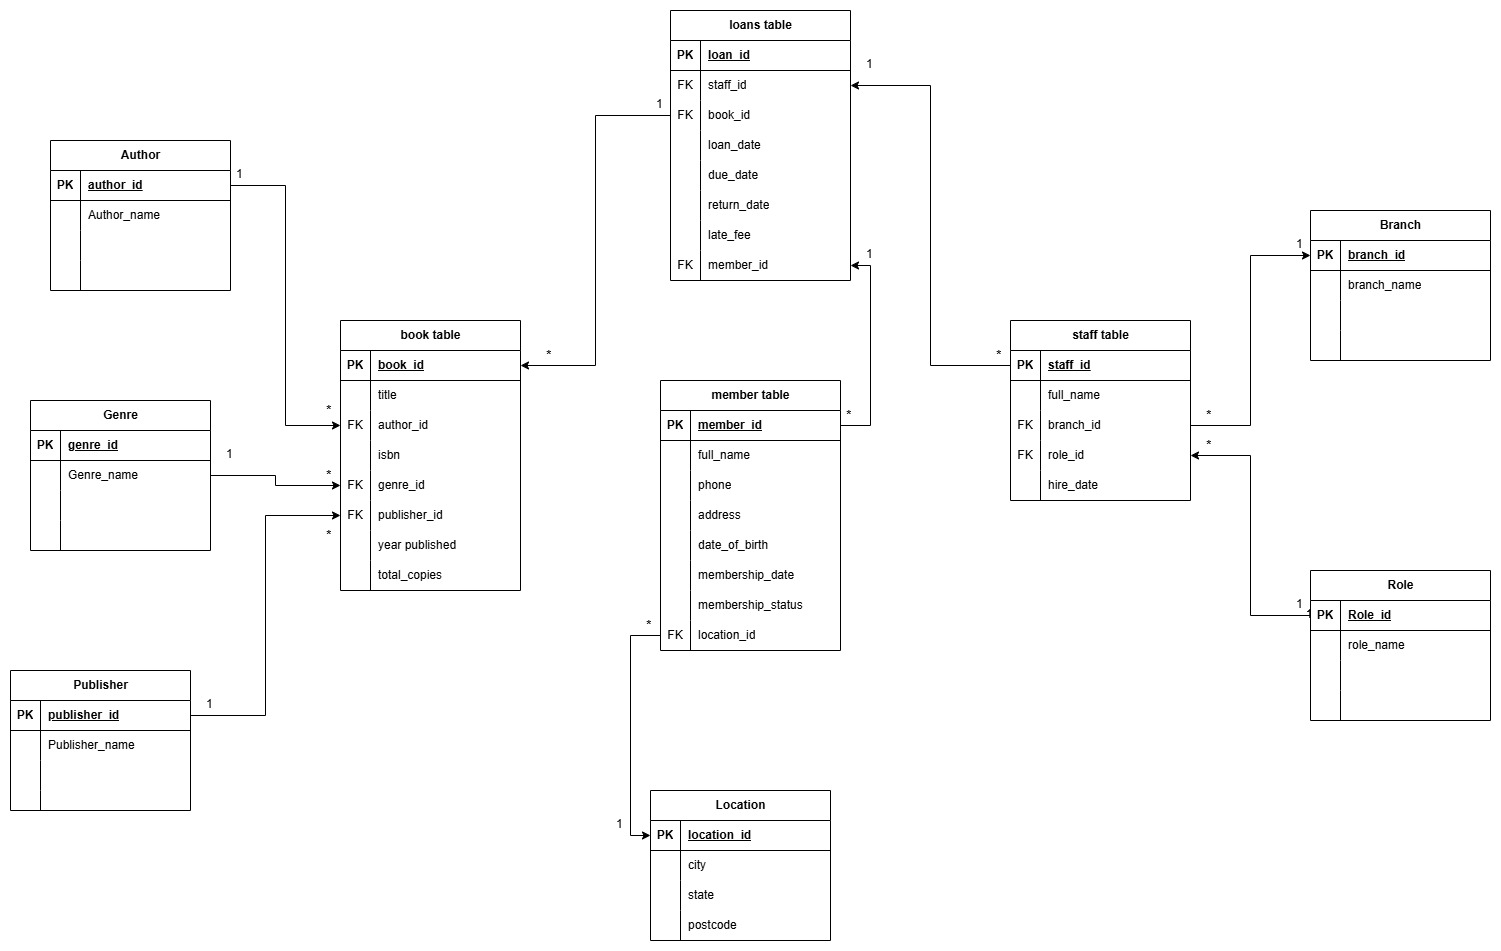
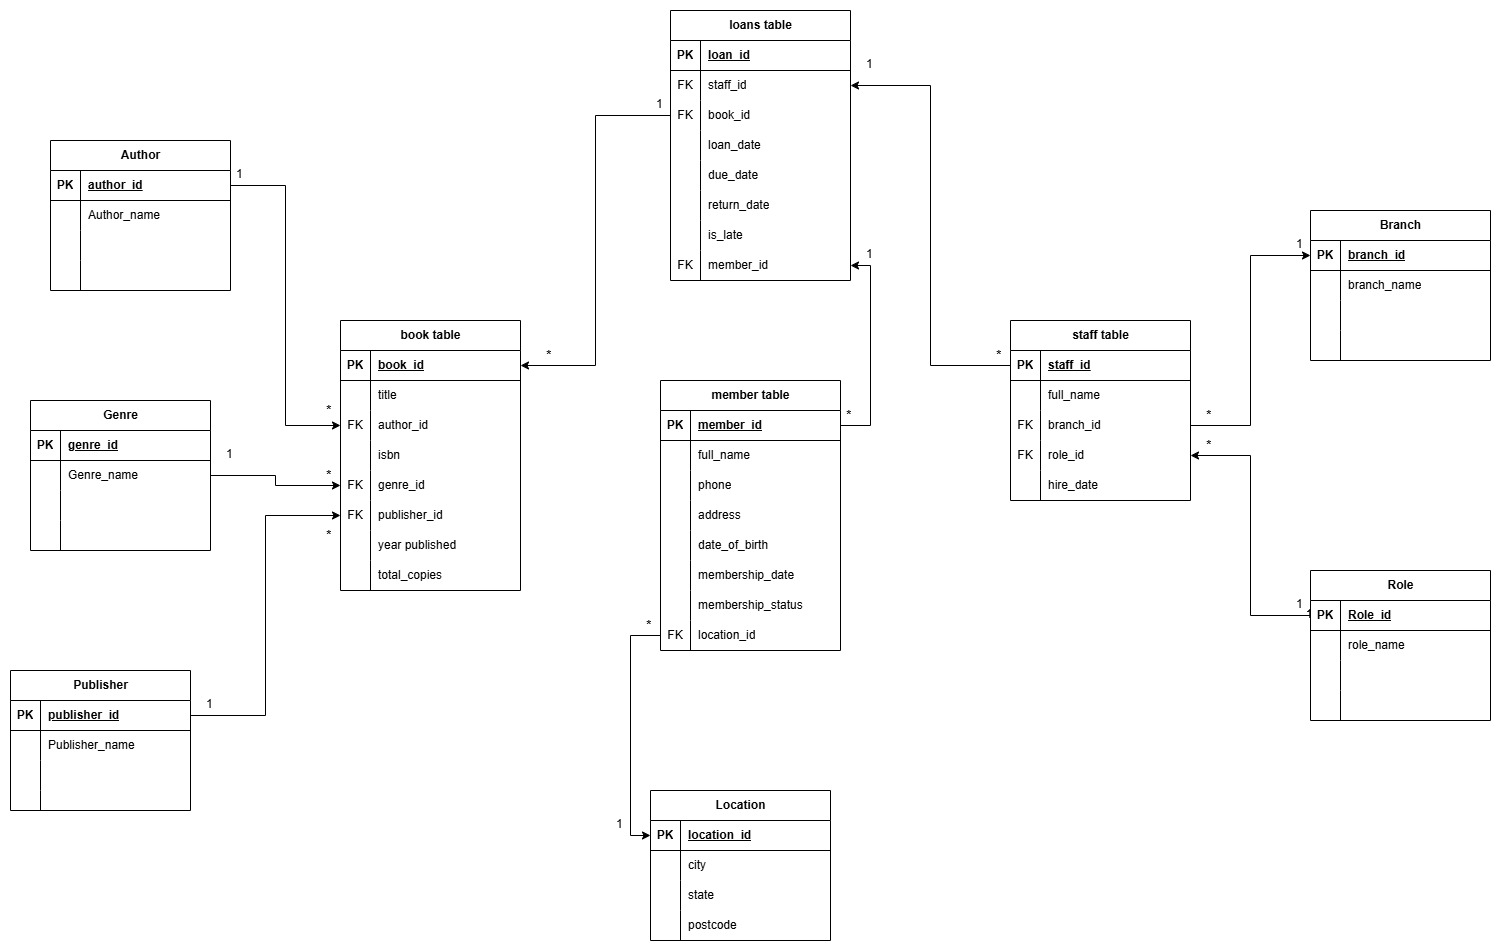
inital project set up

diff --git a/data_creation/fake_data.py b/data_creation/fake_data.py
@@ -44,7 +44,7 @@ class fake_member:
         return random.choice(status_map[key])
 
     def generate_fake_member_db():
-        fake.unique.clear()  # ✅ clear BEFORE generating
+        fake.unique.clear() 
         list_of_ids = [fake.unique.random_int(min=1, max=500) for i in range(500)]
         fake.unique.clear()
         table = []
@@ -83,7 +83,7 @@ class fake_member:
 class fake_book:
 
     def generate_fake_book():
-        fake.unique.clear()  # ✅ clear BEFORE generating
+        fake.unique.clear()  
         list_of_genres = [
             "Fantasy", "Science Fiction", "Mystery", "Thriller", "Romance",
             "Historical Fiction", "Horror", "Biography", "Self-Help",
@@ -124,12 +124,14 @@ class fake_book:
 class loans:
 
     def generate_loan():
-        fake.unique.clear()  # ✅ clear BEFORE generating
+        fake.unique.clear()  
         list_of_member_ids = [fake.unique.random_int(min=1, max=500) for i in range(120)]
         fake.unique.clear()
         list_of_book_ids   = [fake.unique.random_int(min=1, max=500) for i in range(120)]
         fake.unique.clear()
         list_of_loan_ids   = [fake.unique.random_int(min=1, max=120) for i in range(120)]
+        fake.unique.clear()
+        list_of_staff = [fake.unique.random_int(min=1, max=18) for i in range(18)]
         fake.unique.clear()
         late_options = ["Yes", "YES", "True", "1", "y"]
         no_options   = ["No", "NO", "False", "0", "N"]
@@ -147,7 +149,8 @@ class loans:
             loan["loan_date"]   = loan_date
             loan["dueDATE"]     = due_date
             loan["return_date"] = return_date
-            loan["late_fee"]    = random.choice(late_options) if return_date > due_date else random.choice(no_options)
+            loan["is_late"]    = random.choice(late_options) if return_date > due_date else random.choice(no_options)
+            loan["staff_id"] = random.choice(list_of_staff)
             loan_table.append(loan)
 
         df = pd.DataFrame(loan_table)
@@ -158,7 +161,7 @@ class loans:
 class staff:
 
     def generate_staff():
-        fake.unique.clear() \
+        fake.unique.clear() 
 
 
         